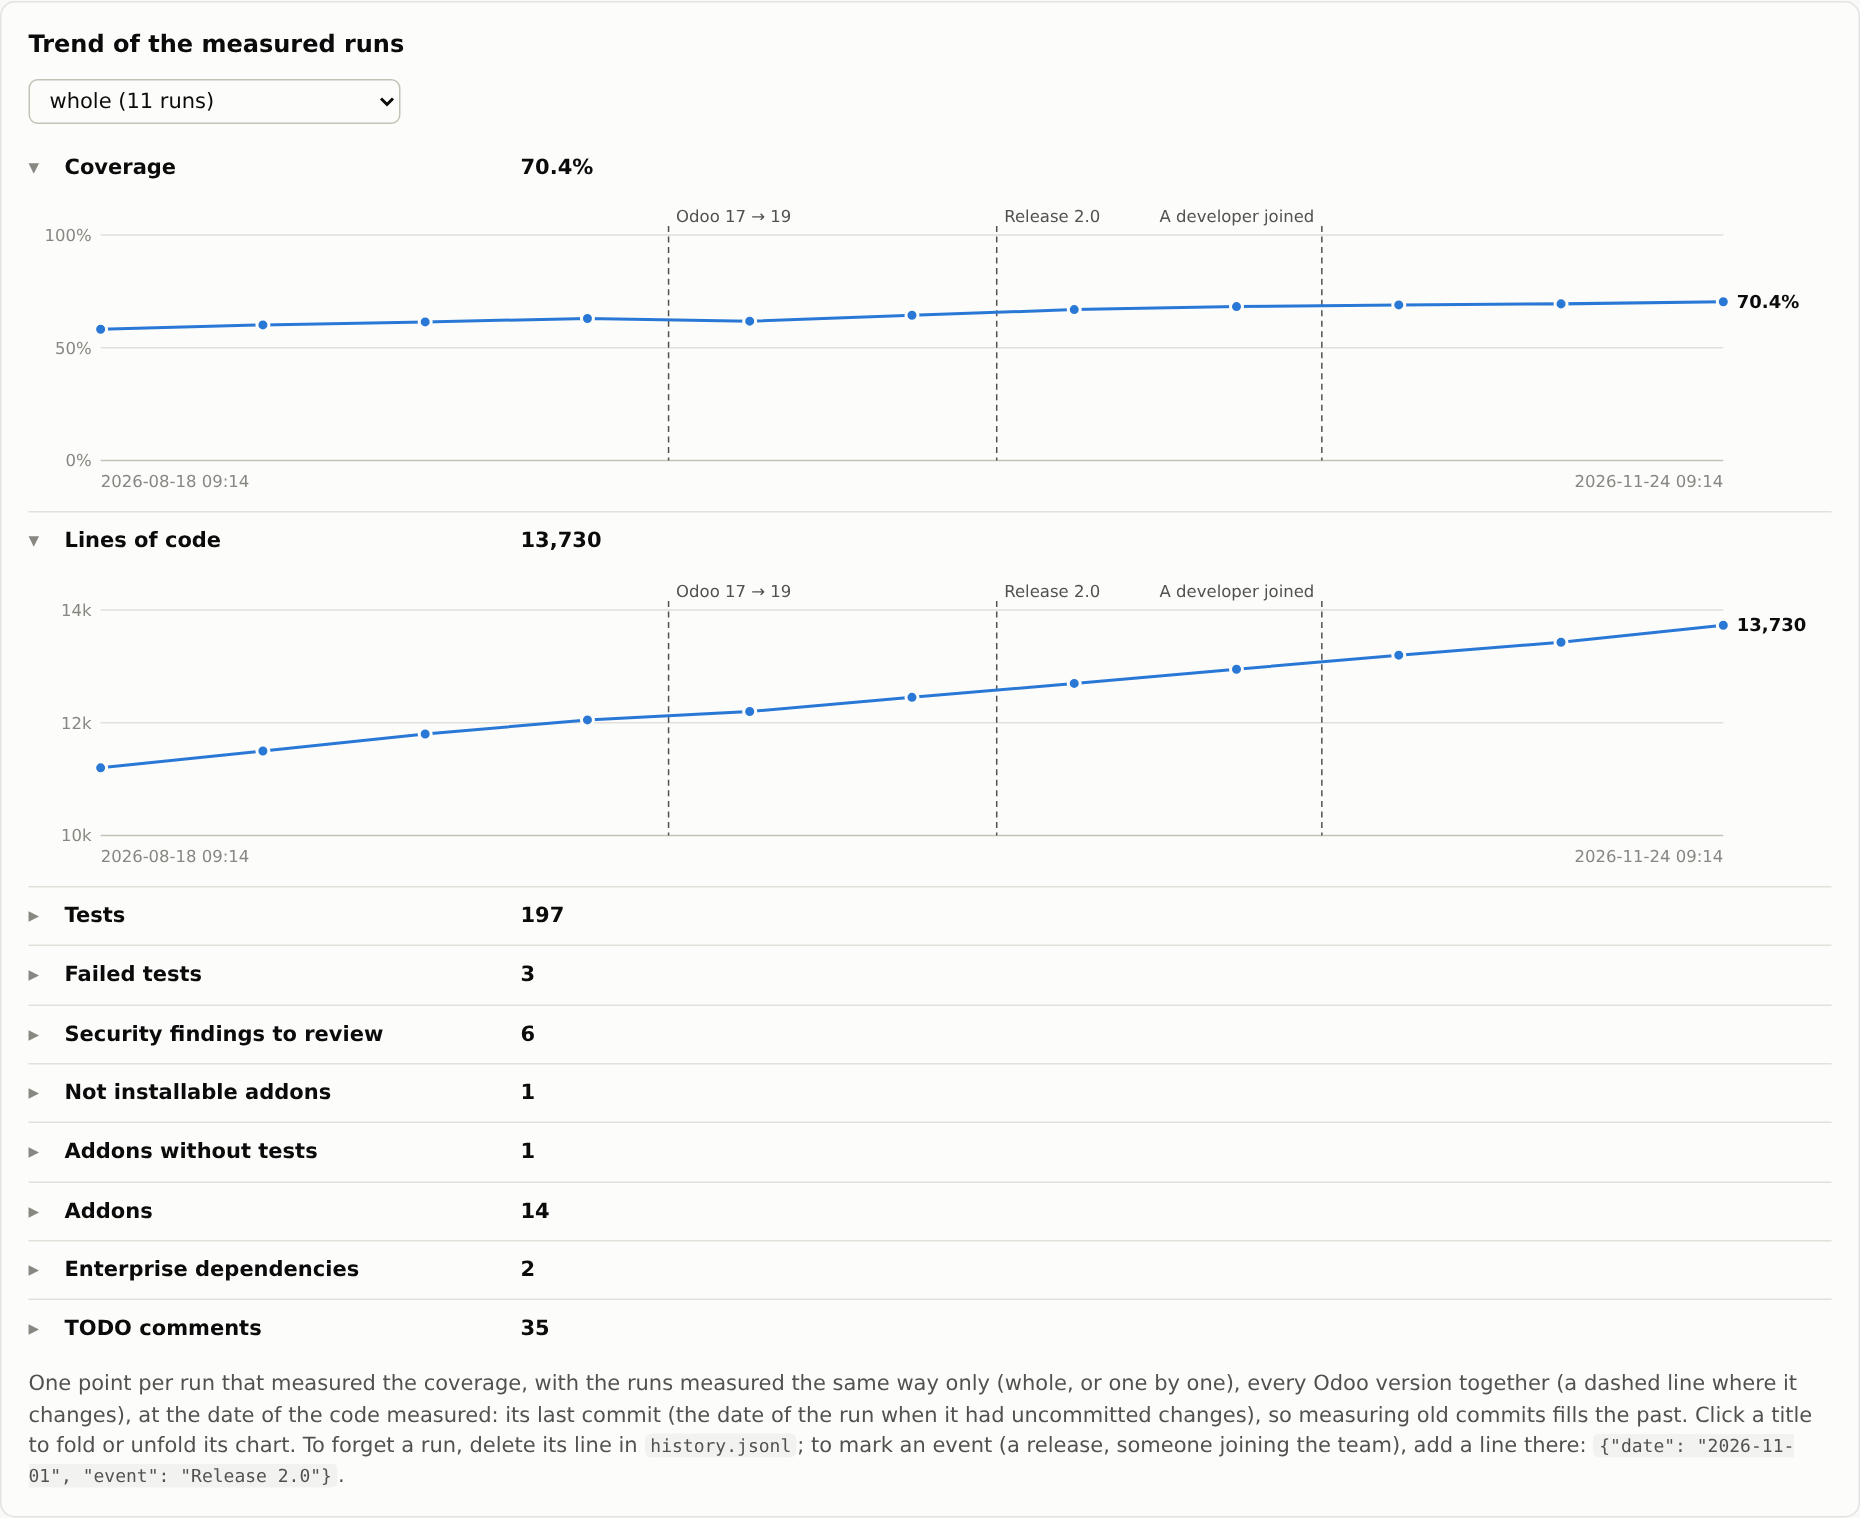
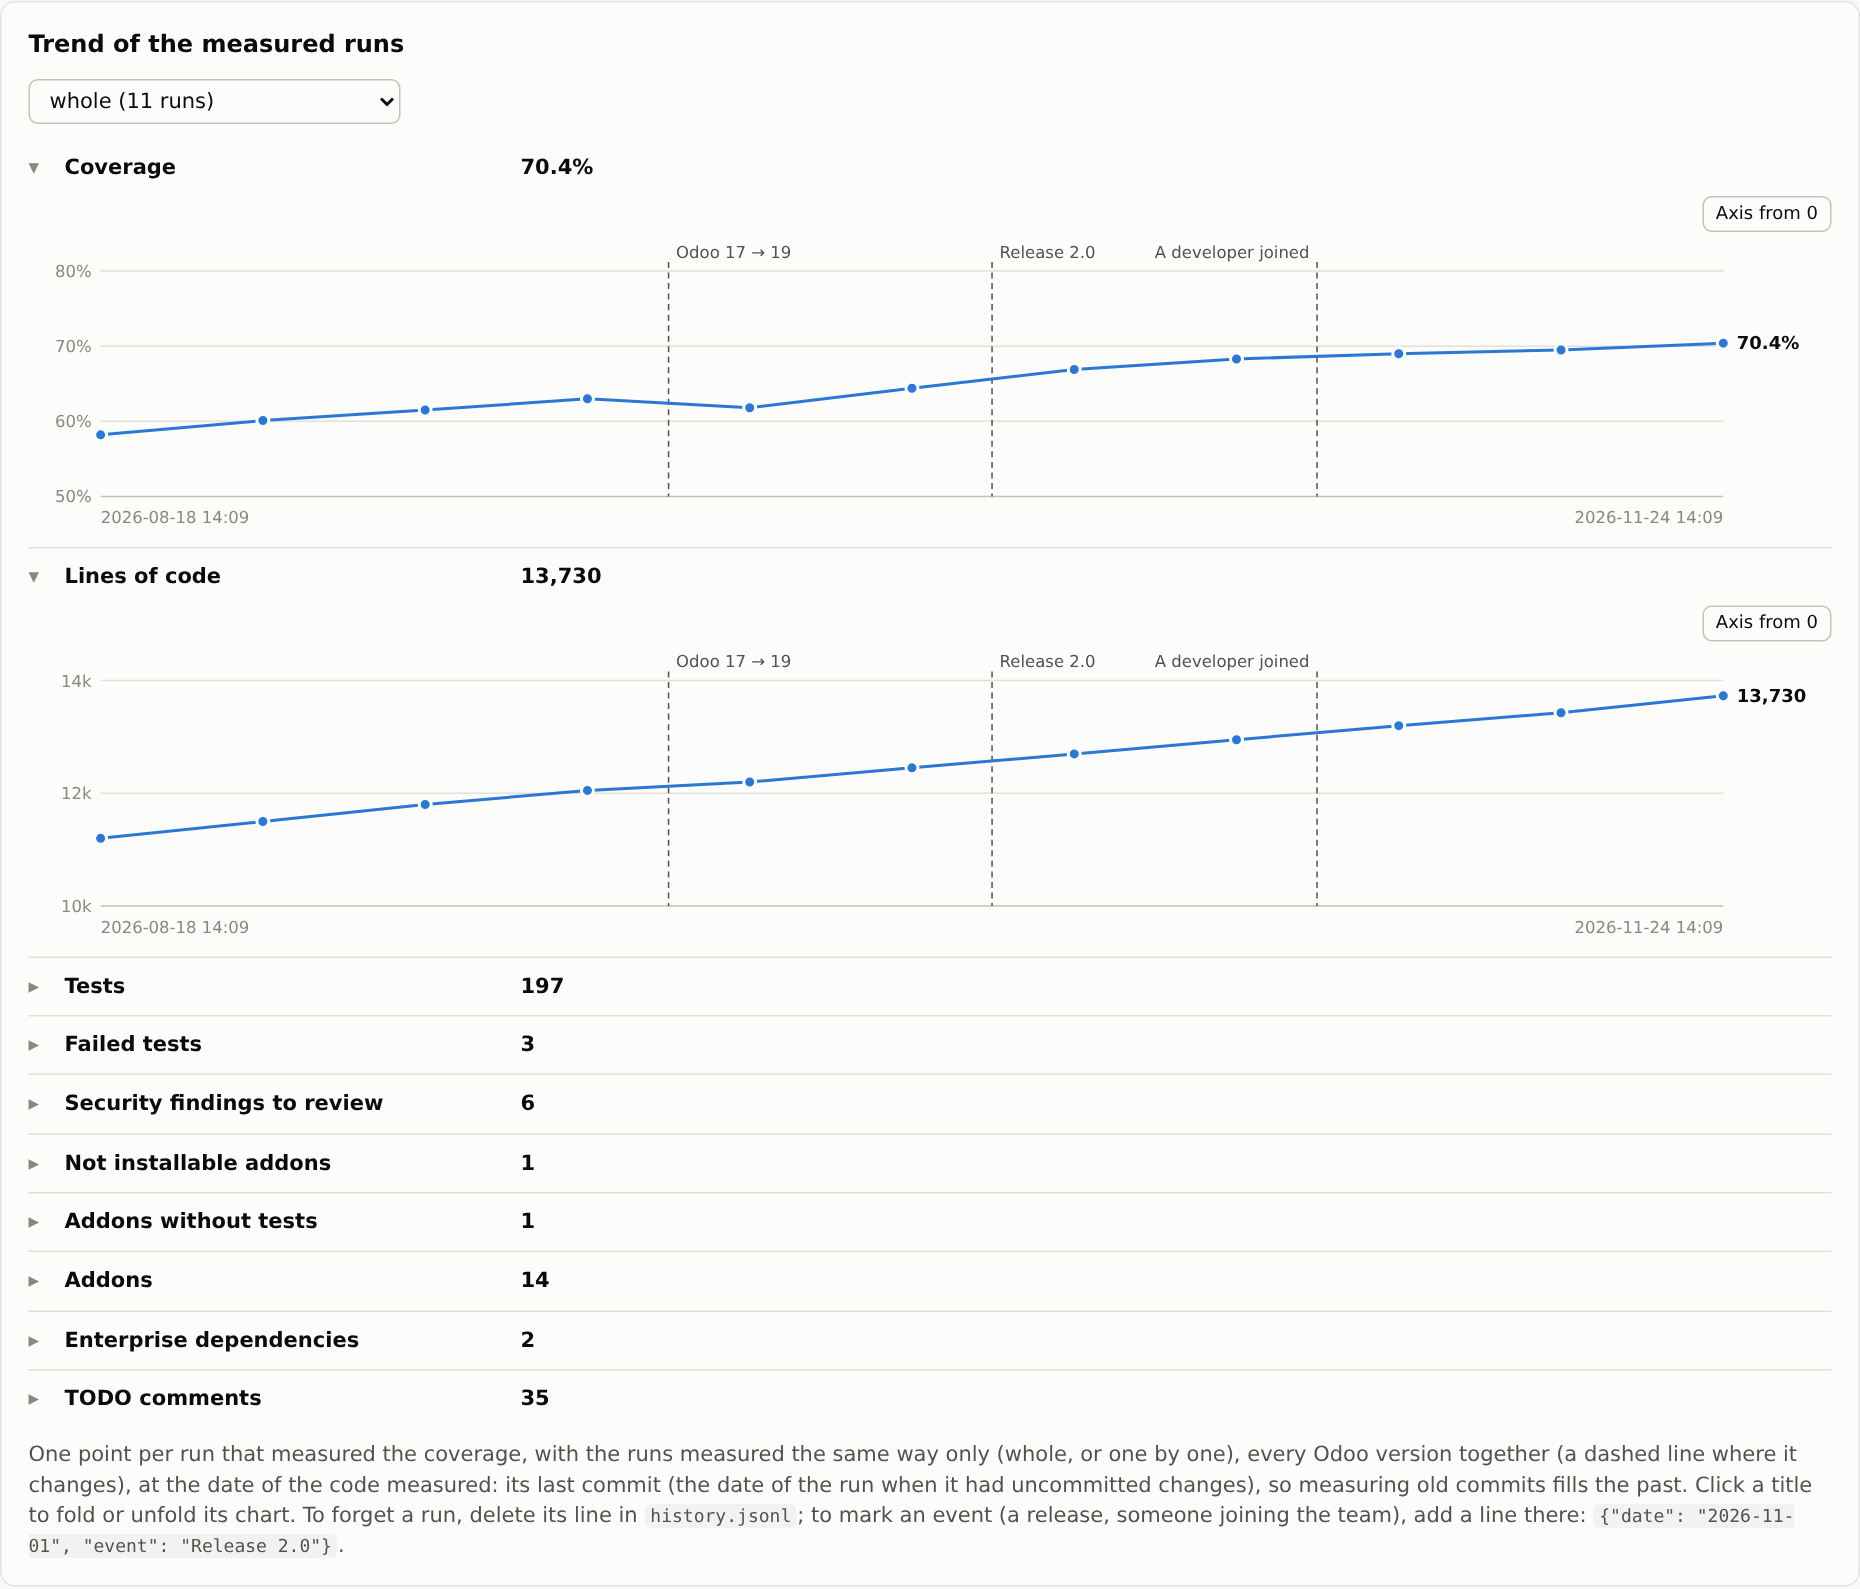
report: every trend chart zoomed on its values, its axis from 0 one click away
- Each chart is drawn zoomed on its values (coverage going from 80% to 82% shows; it
  never goes above 100%) and from 0; the button "Axis from 0" swaps them, for the
  same chart in the trends of the other way of measuring too.
- Version 0.32.0.

diff --git a/jsa/structure/report_html.py b/jsa/structure/report_html.py
@@ -111,6 +111,8 @@ details.trend summary:hover .tname{color:var(--accent)}
 .chart polyline{fill:none;stroke:var(--accent);stroke-width:2;stroke-linejoin:round}
 .chart .dot{fill:var(--accent);stroke:var(--surface);stroke-width:2}.chart .hit{fill:transparent}
 .chart .hit:hover+.dot{r:6}
+details.trend svg.full,details.trend.from0 svg.zoomed{display:none}details.trend.from0 svg.full{display:block}
+.axisbar{display:flex;justify-content:flex-end}button.axis{font-size:12px;padding:2px 8px}
 ul.findings{padding:0;margin:8px 0 0}
 .finding{list-style:none;margin:8px 0;padding:8px 12px;border:1px solid var(--grid);border-radius:8px}
 .finding[hidden]{display:none}
@@ -229,6 +231,14 @@ if (series) {
   const pick = () => document.querySelectorAll('.series').forEach(b => b.hidden = b.dataset.key !== series.value);
   series.addEventListener('change', pick); pick();
 }
+// a chart zoomed on its values (at first) or from 0: the same in the trends of the other ways of measuring
+document.querySelectorAll('details.trend button.axis').forEach(btn => btn.addEventListener('click', () => {
+  const section = btn.closest('details.trend'), from0 = !section.classList.contains('from0');
+  document.querySelectorAll(`details.trend[data-chart="${section.dataset.chart}"]`).forEach(d => {
+    d.classList.toggle('from0', from0);
+    d.querySelector('button.axis').textContent = from0 ? 'Zoom on the values' : 'Axis from 0';
+  });
+}));
 // a chart folded or unfolded: the same in the trends of the other ways of measuring
 document.querySelectorAll('details.trend').forEach(d => d.addEventListener('toggle', () =>
   document.querySelectorAll(`details.trend[data-chart="${d.dataset.chart}"]`).forEach(o => { if (o.open !== d.open) o.open = d.open; })));
@@ -584,12 +594,13 @@ def zoomed_axis(values: list[float], whole: bool = False) -> tuple[float, float,
 
 
 def line_chart(title: str, points: list[tuple], unit: str = "", y_max: Optional[float] = None,
-               zoom: bool = False, events: list[tuple[float, str]] = ()) -> str:
+               zoom: bool = False, events: list[tuple[float, str]] = (), css: str = "") -> str:
     """Line chart of one measure over the runs (the section around it names it). points: (label, value[, tooltip]).
     Each point has a tooltip (its label unless given), the first and last labels are on the x axis, the last
     value is labeled. zoom: the axis covers the values instead of starting at 0 (+2% on 80,000 lines of code would
     look flat). events: (position on the x axis, counted in runs; what happened), drawn as dashed vertical lines.
-    As wide as the page's sections (1200 = their width on a large screen: the text keeps its size there)."""
+    As wide as the page's sections (1200 = their width on a large screen: the text keeps its size there).
+    css: more classes of the <svg>."""
     width, height, left, right, top, bottom = 1200, 200, 48, 72, 26, 24
     values = [p[1] for p in points]
     if zoom:
@@ -600,7 +611,8 @@ def line_chart(title: str, points: list[tuple], unit: str = "", y_max: Optional[
         ticks = [0, high / 2, high] if unit or high % 2 == 0 else [0, high]  # no half tick for counts
     x = lambda i: left + i * (width - left - right) / max(len(points) - 1, 1)
     y = lambda v: top + (1 - (v - low) / (high - low)) * (height - top - bottom)
-    out = [f'<svg class="chart" viewBox="0 0 {width} {height}" width="{width}" role="img" aria-label="{E(title)}">']
+    out = [f'<svg class="chart{" " + css if css else ""}" viewBox="0 0 {width} {height}" width="{width}" role="img" '
+           f'aria-label="{E(title)}">']
     for tick in ticks:
         css = "axisline" if tick == ticks[0] else "gridline"
         out.append(f'<line class="{css}" x1="{left}" x2="{width - right}" y1="{y(tick):.1f}" y2="{y(tick):.1f}"/>'
@@ -625,17 +637,18 @@ def line_chart(title: str, points: list[tuple], unit: str = "", y_max: Optional[
     return "".join(out) + '</svg>'
 
 
-# the charts of the trend, in their default order: (key in the history = name in config.toml, title, unit, zoomed axis)
+# the charts of the trend, in their default order: (key in the history = name in config.toml, title, unit). Each one
+# is zoomed on its values at first (80% -> 82% must show), its axis from 0 one click away (the user, 2026-11-24)
 TREND_CHARTS = (
-    ('coverage', "Coverage", "%", False),
-    ('loc', "Lines of code", "", True),
-    ('tests', "Tests", "", True),
-    ('failed', "Failed tests", "", False),
-    ('security', "Security findings to review", "", True),
-    ('not_installable', "Not installable addons", "", False),
-    ('no_tests', "Addons without tests", "", False),
-    ('addons', "Addons", "", True),
-    ('enterprise', "Enterprise dependencies", "", False),
+    ('coverage', "Coverage", "%"),
+    ('loc', "Lines of code", ""),
+    ('tests', "Tests", ""),
+    ('failed', "Failed tests", ""),
+    ('security', "Security findings to review", ""),
+    ('not_installable', "Not installable addons", ""),
+    ('no_tests', "Addons without tests", ""),
+    ('addons', "Addons", ""),
+    ('enterprise', "Enterprise dependencies", ""),
 )
 TRENDS_OPEN = ('coverage', 'loc')  # unfolded at first, unless [report] trends_open of config.toml says otherwise
 
@@ -659,11 +672,12 @@ def event_positions(dates: list, events: list[dict]) -> list[tuple[float, str]]:
     return found
 
 
-def _trend_section(key: str, title: str, unit: str, is_open: bool, zoom: bool, runs: list[dict], events: list[dict],
+def _trend_section(key: str, title: str, unit: str, is_open: bool, runs: list[dict], events: list[dict],
                    value_of, custom: bool = False, detail=None) -> str:
     """One chart in its foldable section, titled with its last value. The runs are in the order of their code_date.
-    custom: a chart said to come later when no run recorded it yet (a measure of config.toml, the security review;
-    the other charts are left out). detail: more about a run for the tooltip of its point."""
+    Drawn twice: zoomed on its values (shown) and from 0 (class 'full'), a button swaps them (class 'from0' on the
+    section, see JS). custom: a chart said to come later when no run recorded it yet (a measure of config.toml, the
+    security review; the other charts are left out). detail: more about a run for the tooltip of its point."""
     points = [(r, value_of(r)) for r in runs if value_of(r) is not None]
     head = f'<details class="trend" data-chart="{key}"{" open" if is_open else ""}><summary><span class="tname">{E(title)}</span>'
     if not points:
@@ -678,9 +692,11 @@ def _trend_section(key: str, title: str, unit: str, is_open: bool, zoom: bool, r
         f" (measured {str(r['date'])[:10]})" if r.get('code_date') and str(r['code_date'])[:10] != str(r.get('date', ''))[:10] else "") + (
         f" · {detail(r)}" if detail and detail(r) else "")
     dates = [code_date(r) for r, _ in points]
-    chart = line_chart(title, [(label(r), v, tip(r)) for r, v in points], unit, 100 if unit == "%" else None, zoom,
-                       event_positions(dates, events + version_changes([r for r, _ in points])) if all(dates) else [])
-    return head + '</summary>' + chart + '</details>'
+    marks = event_positions(dates, events + version_changes([r for r, _ in points])) if all(dates) else []
+    chart = lambda zoom: line_chart(title, [(label(r), v, tip(r)) for r, v in points], unit, 100 if unit == "%" else None,
+                                    zoom, marks, "zoomed" if zoom else "full")
+    return (head + '</summary><div class="axisbar"><button type="button" class="axis" title="The axis of this chart starts '
+            'at 0, or covers only its values">Axis from 0</button></div>' + chart(True) + chart(False) + '</details>')
 
 
 def version_changes(runs: list[dict]) -> list[dict]:
@@ -746,19 +762,18 @@ def _trend(history: list[dict], measures: list[str] = (), choice: Optional[dict]
     select = ('<div class="controls"><select id="series" aria-label="Which runs">' + "".join(
         f'<option value="{i}">{E(label(key))} ({len(series[key])} runs)</option>' for i, key in enumerate(keys))
         + '</select></div>') if len(keys) > 1 else f'<p class="meta">{E(label(shown))}</p>'
-    builtin = {key: (title, unit, zoom) for key, title, unit, zoom in TREND_CHARTS}
+    builtin = {key: (title, unit) for key, title, unit in TREND_CHARTS}
 
     def section(name: str, lines: list[dict]) -> str:
         if name == 'security':
-            title, unit, zoom = builtin[name]
-            return _trend_section(name, title, unit, name in unfolded, zoom, lines, events,
-                                  lambda r: open_findings(r, reviewed), custom=True,
-                                  detail=lambda r: _findings_detail(r, reviewed))
+            title, unit = builtin[name]
+            return _trend_section(name, title, unit, name in unfolded, lines, events, lambda r: open_findings(r, reviewed),
+                                  custom=True, detail=lambda r: _findings_detail(r, reviewed))
         if name in builtin:
-            title, unit, zoom = builtin[name]
-            return _trend_section(name, title, unit, name in unfolded, zoom, lines, events, lambda r: r.get(name))
+            title, unit = builtin[name]
+            return _trend_section(name, title, unit, name in unfolded, lines, events, lambda r: r.get(name))
         if name in measures:  # data-chart: an id, the label may hold any character
-            return _trend_section(f"m{list(measures).index(name)}", name, "", name in unfolded, True, lines, events,
+            return _trend_section(f"m{list(measures).index(name)}", name, "", name in unfolded, lines, events,
                                   lambda r: (r.get('measures') or {}).get(name), custom=True)
         return ""  # a measure removed from config.toml
 
@@ -770,7 +785,8 @@ def _trend(history: list[dict], measures: list[str] = (), choice: Optional[dict]
             'same way only (whole, or one by one), every Odoo version together (a dashed line where it changes), at the date '
             'of the code measured: its last commit '
             '(the date of the run when it had uncommitted changes), so measuring old commits fills the past. '
-            'Click a title to fold or unfold its chart. To forget a '
+            'Click a title to fold or unfold its chart. Each chart is zoomed on its values: "Axis from 0" draws it from '
+            '0. To forget a '
             'run, delete its line in <code>history.jsonl</code>; to mark an event (a release, someone joining the team), add '
             'a line there: <code>{"date": "2026-11-01", "event": "Release 2.0"}</code>.</p></section>')
 

diff --git a/tests/test_structure.py b/tests/test_structure.py
@@ -193,7 +193,8 @@ def test_one_trend_per_way_of_measuring_every_odoo_version_together(tmp_path):
     assert "41%" in shown and "72%" not in shown and "hidden" not in shown[:20]
     whole = page[page.index('data-key="1"'):page.index('data-key="2"')]
     coverage = whole[:whole.index('data-chart="failed"')]
-    assert coverage.count('class="dot"') == 4  # Odoo 17 and 19 on the same curve
+    zoomed = coverage[:coverage.index('class="chart full"')]  # each chart drawn twice: zoomed (shown) and from 0
+    assert zoomed.count('class="dot"') == 4  # Odoo 17 and 19 on the same curve
     assert "<title>Odoo 17 → 19</title>" in coverage and "· Odoo 17: 50%" in coverage  # where the version changes
     assert page.count(" hidden>") == 3
     assert ".series[hidden]{display:none}" in report_html.CSS  # the charts are display:flex, which beats "hidden"
@@ -256,7 +257,8 @@ def test_trend_charts_one_under_the_other_coverage_and_lines_of_code_open():
     assert "since" not in page
     assert "recorded from the next run measuring the coverage (-c)" in page[page.index('data-chart="m1"'):]
     # the event between the two runs is drawn on every chart, the one before the first run is not
-    assert page.count("<title>Release 2.0</title>") == 8 and "Before the first run" not in page and "Broken" not in page
+    # (each chart is drawn twice: zoomed on its values, and from 0)
+    assert page.count("<title>Release 2.0</title>") == 16 and "Before the first run" not in page and "Broken" not in page
     runs, events = report.runs_and_events(history)
     assert len(runs) == 2 and [e["event"] for e in events] == ["Release 2.0", "Before the first run"]
     assert report_html.event_positions([report.parse_date("2026-10-01"), report.parse_date("2026-10-03")],
@@ -331,6 +333,19 @@ def test_zoomed_axis_for_lines_of_code():
     chart = report_html.line_chart("Lines of code", [("a", 12000), ("b", 12480)], zoom=True)
     assert ">12k<" in chart and ">12.5k<" in chart and ">0<" not in chart and ">12,480<" in chart
     assert ">0<" in report_html.line_chart("Failed tests", [("a", 3), ("b", 1)])  # counts start at 0
+
+
+def test_every_chart_zoomed_at_first_its_axis_from_0_one_click_away():
+    page = report_html._trend([_run(1, 80.0, 12000), _run(3, 82.0, 12480)])
+    coverage = page[page.index('data-chart="coverage"'):page.index('data-chart="loc"')]
+    zoomed = coverage[coverage.index('class="chart zoomed"'):coverage.index('class="chart full"')]
+    full = coverage[coverage.index('class="chart full"'):]
+    assert ">80%<" in zoomed and ">82%<" in zoomed and ">0%<" not in zoomed  # 80% -> 82% shows
+    assert ">0%<" in full and ">100%<" in full
+    assert '<button type="button" class="axis"' in coverage and ">Axis from 0</button>" in coverage
+    assert "details.trend svg.full,details.trend.from0 svg.zoomed{display:none}" in report_html.CSS
+    low, high, _ = report_html.zoomed_axis([99.2, 99.9])
+    assert 99 <= low and high <= 100  # a coverage near 100% never gets an axis above 100%
 
 
 def test_the_time_a_test_may_take(capsys):

diff --git a/docs/guide.md b/docs/guide.md
@@ -163,8 +163,9 @@ then the other applications and modules. Useful before moving a database to the 
 
 - **Trends**, run after run, one chart under the other: coverage and lines of code open, the others folded (tests,
   failed tests, security findings to review, addons not installable, addons without tests, addons, enterprise
-  dependencies, your own measures), each titled with its last value. The lines of code have their own scale (a 2% growth would look flat on an axis
-  starting at 0). Each run is placed at the date of the code it measured: the last commit of your addons folders
+  dependencies, your own measures), each titled with its last value. Each chart is zoomed on its values (coverage
+  going from 80% to 82% shows); its button "Axis from 0" draws it from 0 instead (in the trends of the other way of
+  measuring too). Each run is placed at the date of the code it measured: the last commit of your addons folders
   (or the date of the run when they had uncommitted changes). So you can fill the past: `jsa backfill` (below).
 
 **Filling the past.** List old commits of your addons in `plugins/backfill/backfill.toml` (copy
